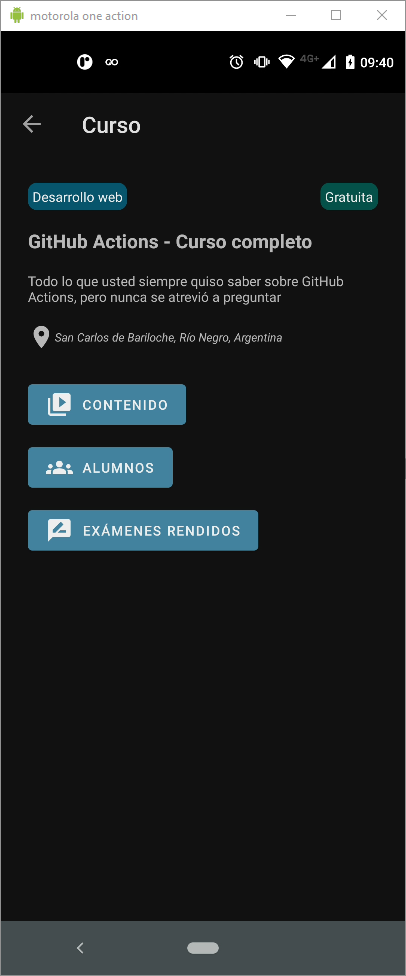
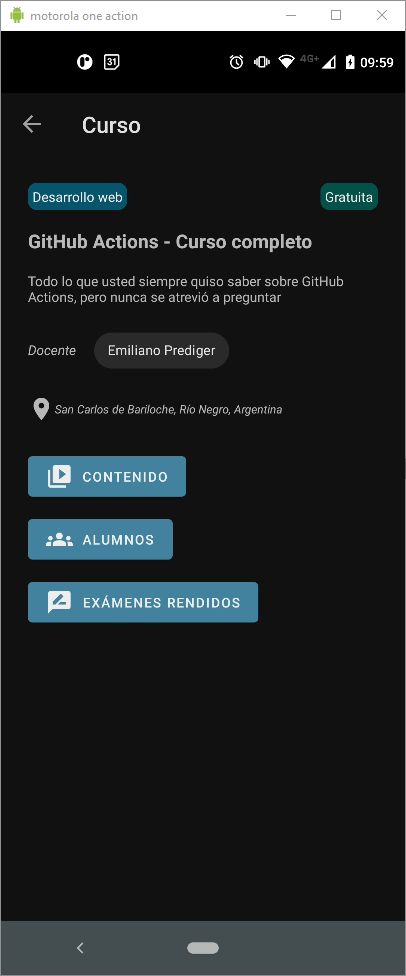
Add teacher to collaborator course

Changed region(s): [[0.0591, 0.3074, 0.6798, 0.6455], [0.5911, 0.3996, 0.6798, 0.4303], [0.266, 0.0307, 0.2956, 0.0922]]

diff --git a/index.md b/index.md
@@ -119,7 +119,7 @@ Los colaboradores tienen acceso a un subconjunto de funcionalidades que están d
 
 ![image](/screenshots/collaborator_courses.png)
 
-Como colaborador, uno puede ver el contenido del curso, acceder al listado de alumnos y corregir los exámenes. Estas funcionalidades son idénticas a las del creador.
+Como colaborador, uno puede ver el contenido del curso, acceder al listado de alumnos y corregir los exámenes. Estas funcionalidades son idénticas a las del creador, al cuyo perfil público se puede acceder.
 
 ![image](/screenshots/assist_course.png)
 
